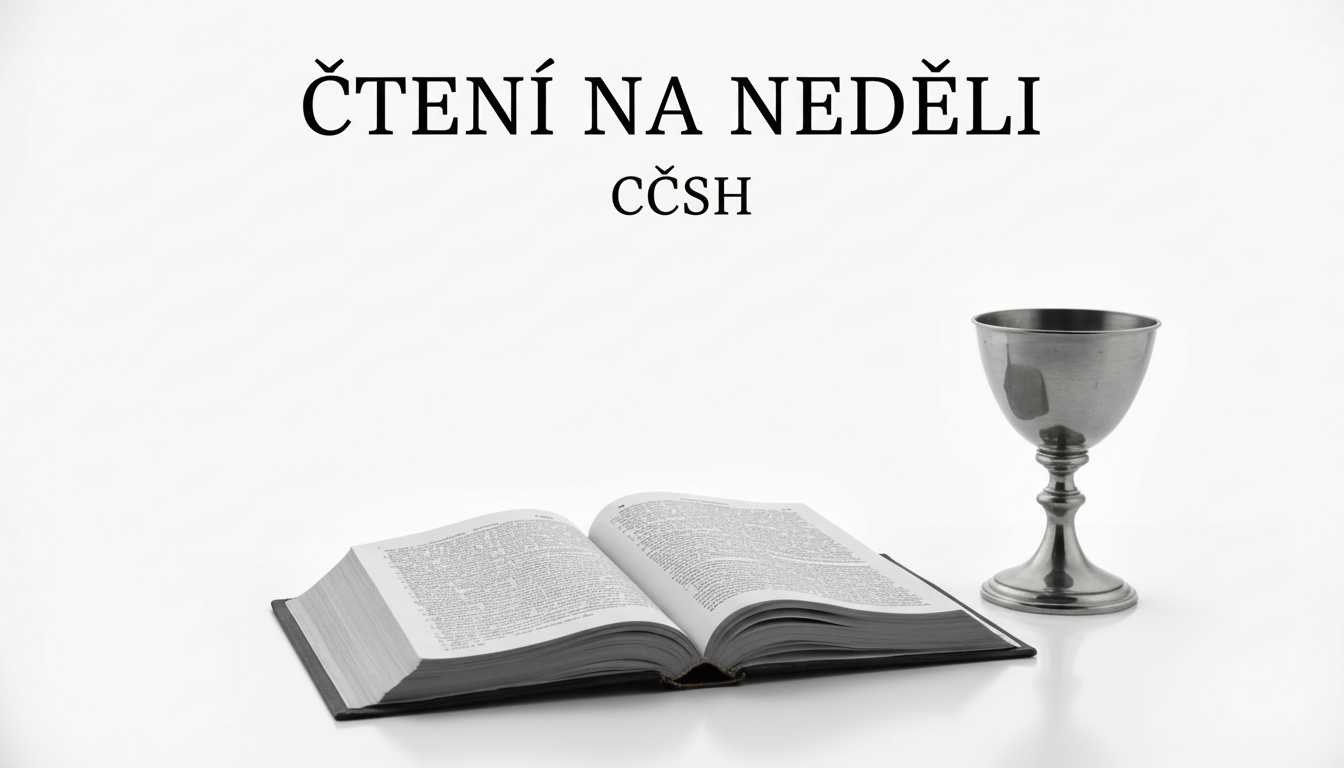
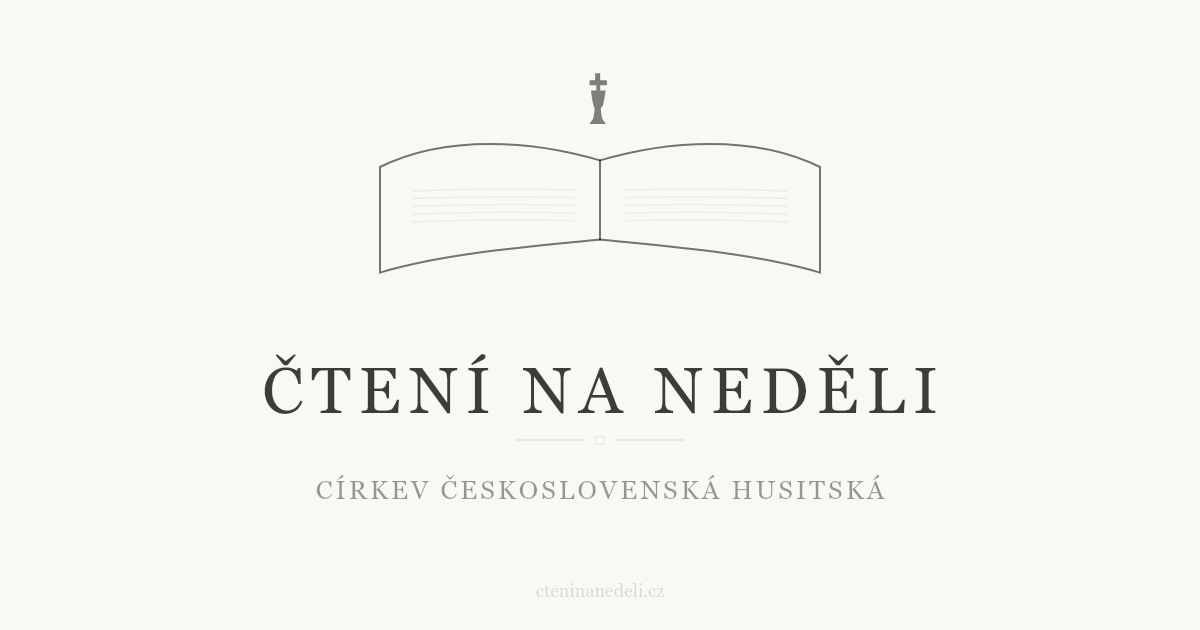
feat: new OG image with open book + chalice, Buy Me a Coffee link
- Replace stock photo OG image with clean illustration (open book + chalice)
- Fix og:image and twitter:image URLs (lovable.app → cteninanedeli.cz)
- Add "Podpořte projekt" Buy Me a Coffee link in footer
- Add generate-og-image.mjs script for reproducible OG image generation

diff --git a/src/pages/Index.tsx b/src/pages/Index.tsx
@@ -3,7 +3,7 @@ import { useState, useEffect, useRef, lazy, Suspense } from "react";
 import { useReadings } from "@/hooks/useReadings";
 import { useAIData } from "@/hooks/useAIData";
 import { trackEvent } from "@/lib/analytics";
-import { Loader2, Moon, Sun, Mail, Heart } from "lucide-react";
+import { Loader2, Moon, Sun, Mail, Heart, Coffee } from "lucide-react";
 import ccshChalice from "@/assets/ccsh-chalice.svg";
 import { NotificationButton } from "@/components/NotificationButton";
 import { ErrorBoundary } from "@/components/ErrorBoundary";
@@ -256,7 +256,7 @@ const Index = () => {
           <a href="https://www.ccsh.cz" target="_blank" rel="noopener noreferrer" className="underline underline-offset-2 hover:text-foreground transition-colors">Českého zápasu</a>
           {" "}(1921–1924)
         </p>
-        <p className="inline-flex items-center justify-center gap-1.5">
+        <p className="inline-flex items-center justify-center gap-1.5 flex-wrap">
           <Heart className="h-3 w-3" /> Eva Pavlíková
           <span className="text-muted-foreground/30">·</span>
           <a
@@ -265,6 +265,16 @@ const Index = () => {
           >
             <Mail className="h-3 w-3" />
             Napište mi
+          </a>
+          <span className="text-muted-foreground/30">·</span>
+          <a
+            href="https://buymeacoffee.com/evapavlikova"
+            target="_blank"
+            rel="noopener noreferrer"
+            className="inline-flex items-center gap-1 hover:text-foreground transition-colors"
+          >
+            <Coffee className="h-3 w-3" />
+            Podpořte projekt
           </a>
         </p>
       </footer>

diff --git a/index.html b/index.html
@@ -26,14 +26,14 @@
     <meta property="og:title" content="Čtení textů na neděli | CČSH" />
     <meta property="og:description" content="Připrav se na nedělní čtení v Církvi československé husitské." />
     <meta property="og:type" content="website" />
-    <meta property="og:image" content="https://cteninanedeli.lovable.app/og-image.png" />
+    <meta property="og:image" content="https://cteninanedeli.cz/og-image.png" />
     <meta property="og:image:width" content="1200" />
     <meta property="og:image:height" content="630" />
 
     <meta name="twitter:card" content="summary_large_image" />
     <meta name="twitter:title" content="Čtení textů na neděli | CČSH" />
     <meta name="twitter:description" content="Připrav se na nedělní čtení v Církvi československé husitské." />
-    <meta name="twitter:image" content="https://cteninanedeli.lovable.app/og-image.png" />
+    <meta name="twitter:image" content="https://cteninanedeli.cz/og-image.png" />
   </head>
 
   <body>
